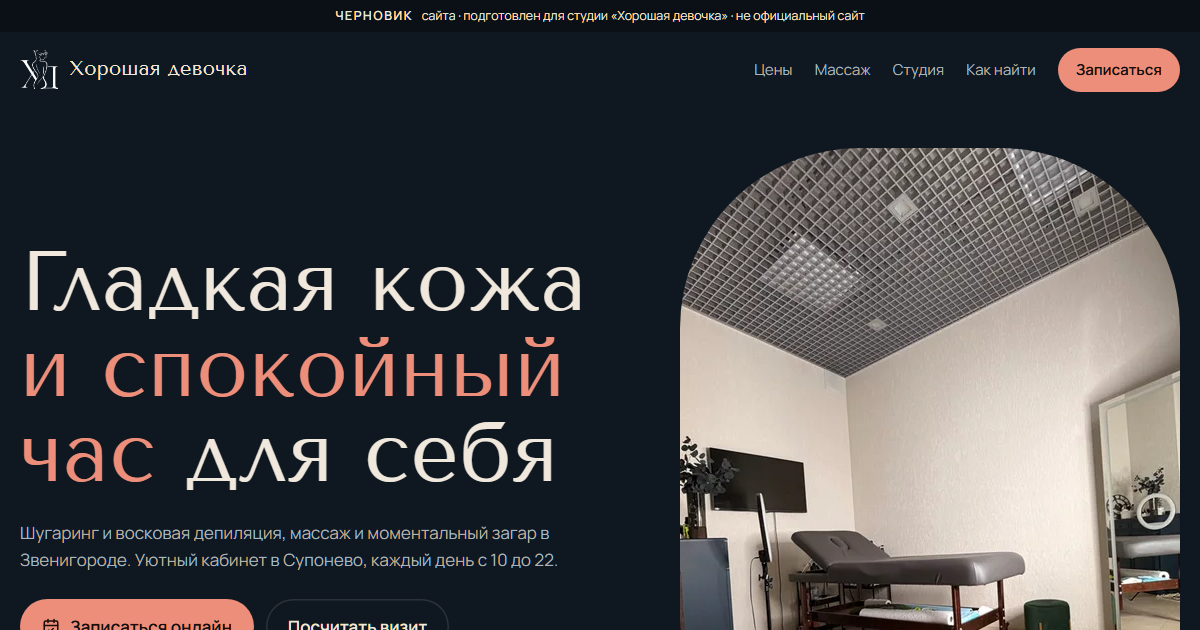
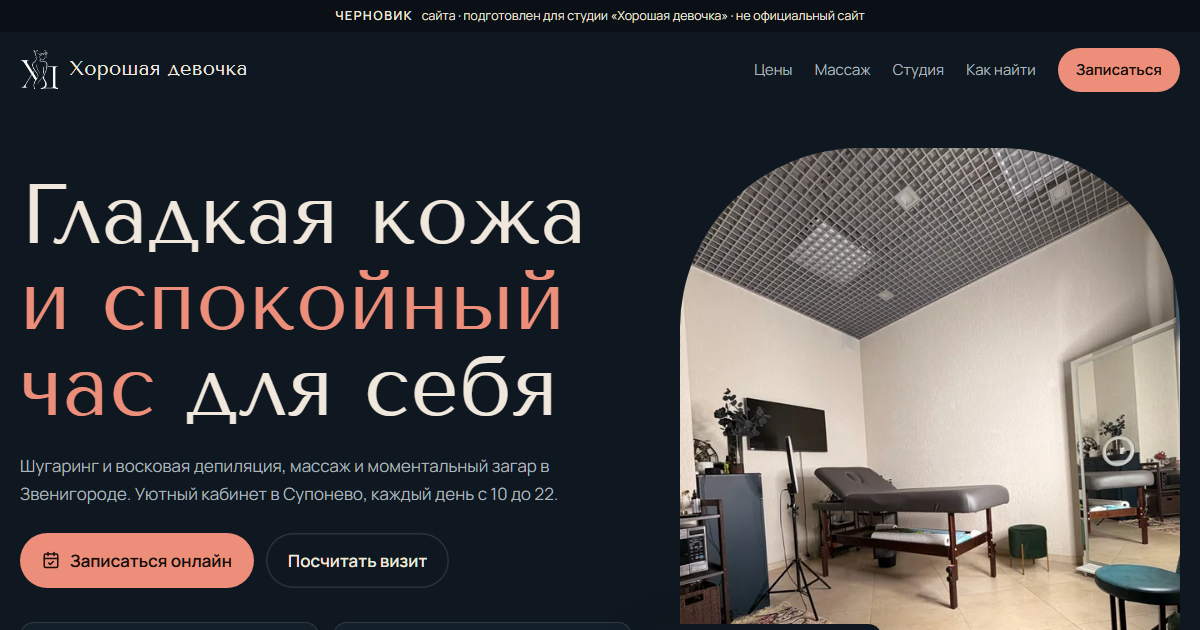
horoshaya-devochka: пропорции фото

diff --git a/horoshaya-devochka/index.html b/horoshaya-devochka/index.html
@@ -74,7 +74,7 @@ img.logo,.shapka img{height:auto}
 .fakty span,.fakty a{font-size:14.5px;color:var(--mut)}
 .fakty b{color:var(--ink)}
 .geroj-foto{position:relative}
-.geroj-foto img.f{border-radius:180px 180px var(--r) var(--r);aspect-ratio:3/4;object-fit:cover;width:100%}
+.geroj-foto img.f{height:auto;border-radius:180px 180px var(--r) var(--r);aspect-ratio:3/4;object-fit:cover;width:100%}
 .geroj-foto .logo{position:absolute;left:-28px;bottom:-26px;width:46%;background:var(--bg);border-radius:var(--r);padding:18px 18px 14px;box-shadow:0 20px 50px rgba(0,0,0,.4)}
 @media (max-width:860px){.geroj{grid-template-columns:1fr;gap:56px}.fakty{grid-template-columns:1fr}.geroj-foto{max-width:420px}.geroj-foto .logo{left:auto;right:-8px;width:44%}}
 
